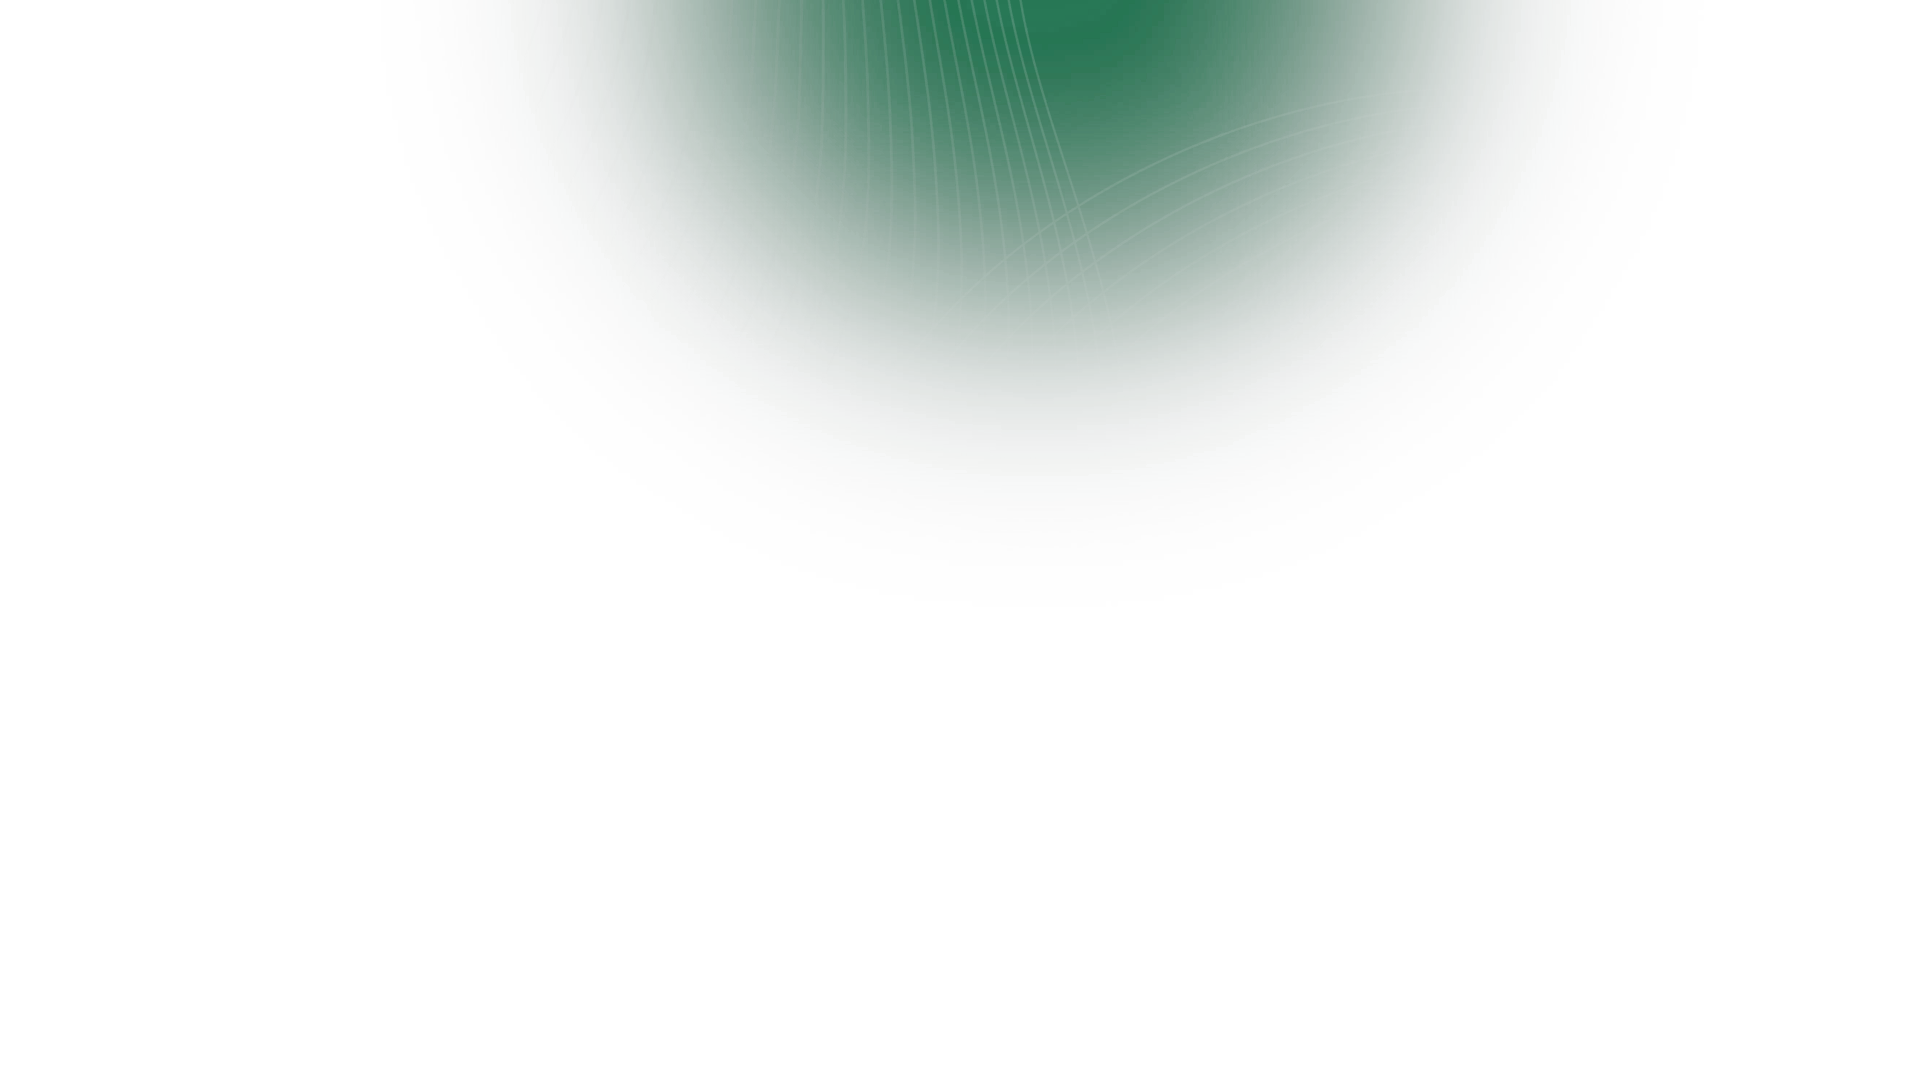
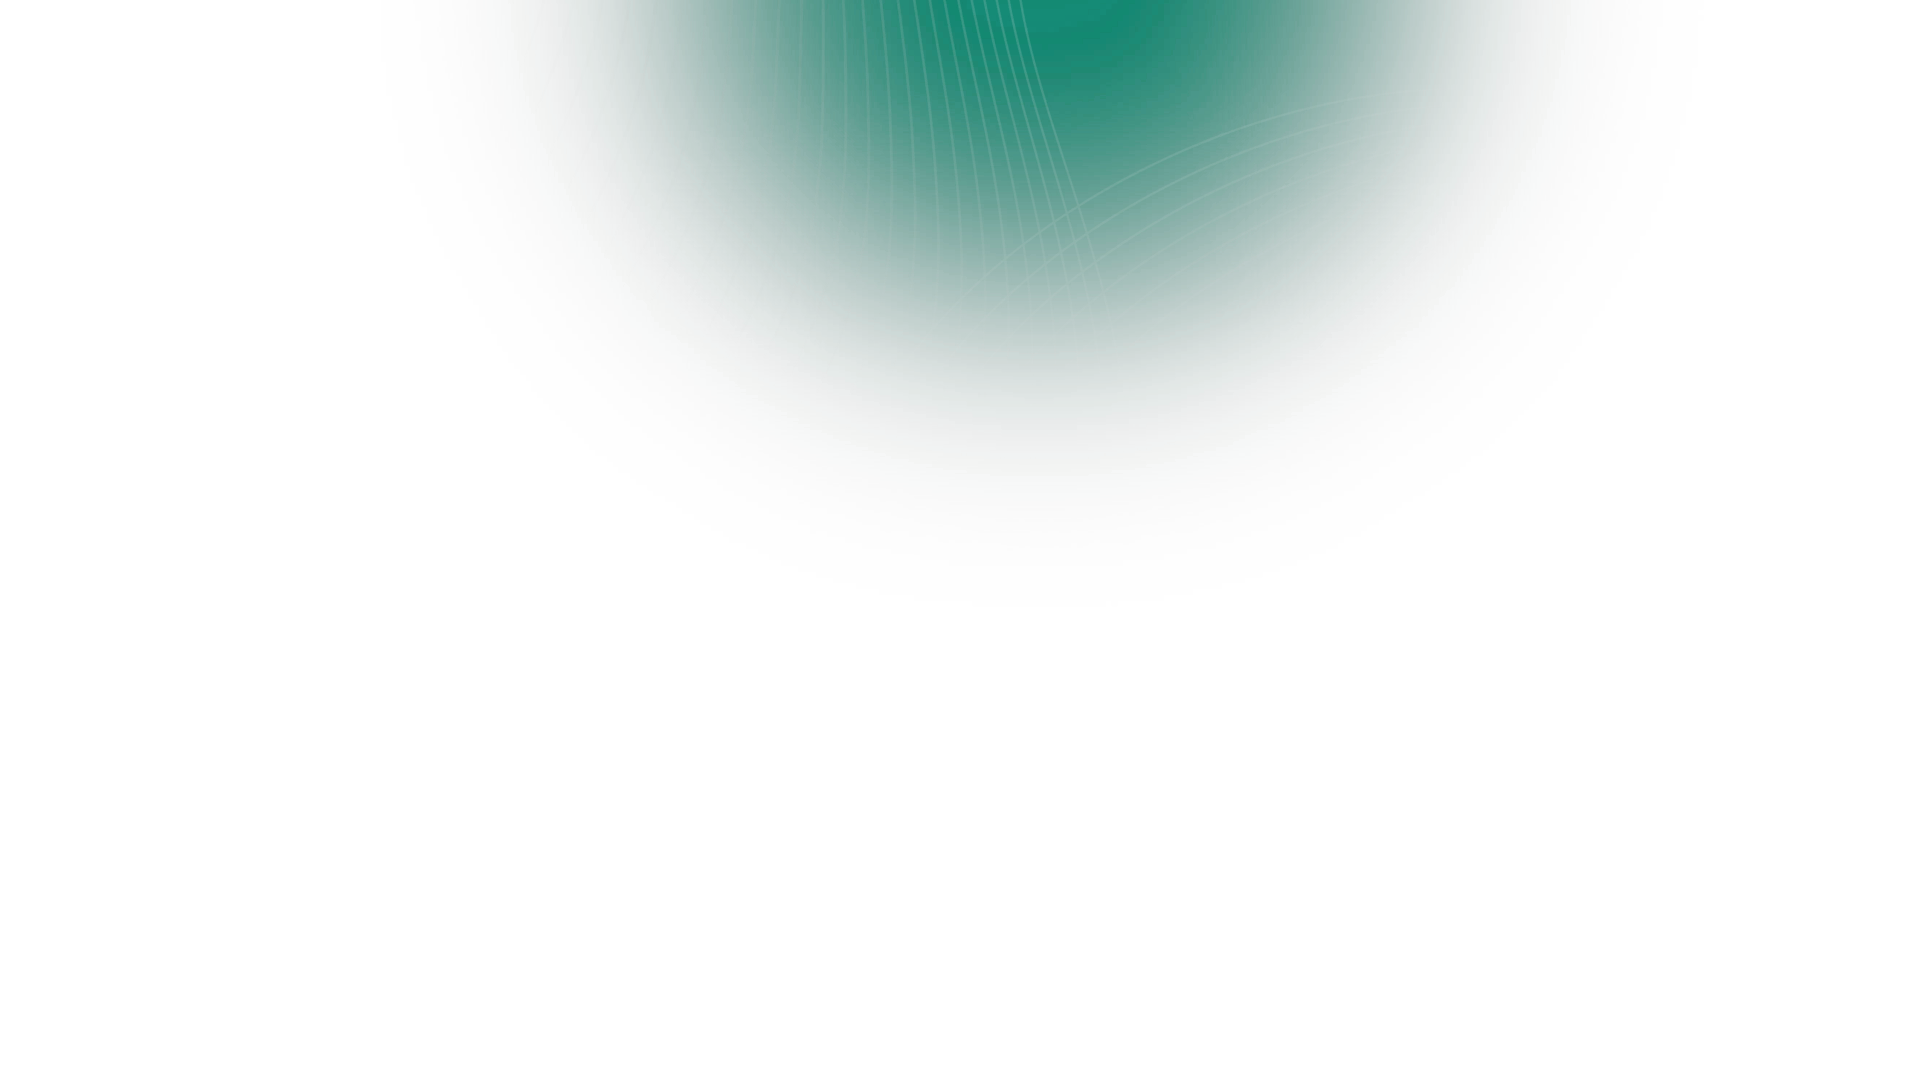
feat: изумрудная цветовая схема + новые фотографии спикера
- Все 6 фонов перекрашены в изумрудный через ImageMagick (-modulate 100,140,73)
- CSS-переменные: --navy:#0B3B34, --quote-card:#EAF4F1, glow rgba(46,125,107,...)
- Обложка: центральный cutout cover-cutout-6616.png (чёрный пиджак), правая панель → career-at-work.jpg
- О спикере: speaker-cutout-7182-v2.png (полоска, кроп до y=1680), маска 85-100%
- Контакты: cutout speaker-cutout-6633.png справа на белом + изумрудный glow

Changed region(s): [[0.4375, 0.0, 0.625, 0.1222]]

diff --git a/mediakit.html b/mediakit.html
@@ -9,13 +9,13 @@
 <link href="https://fonts.googleapis.com/css2?family=Montserrat:wght@700;800&family=Inter:wght@400;500;700&display=swap" rel="stylesheet">
 <style>
 :root{
-  --navy:#1E3A2F;
+  --navy:#0B3B34;
   --graphite:#3B3B38;
   --muted:rgba(59,59,56,.6);
   --panel:#F9F9F9;
   --card:#F6F6F6;
-  --quote-card:#EEF5F0;
-  --accent:30,58,47;
+  --quote-card:#EAF4F1;
+  --accent:11,59,52;
   --W:1920px;
   --H:1080px;
 }
@@ -54,7 +54,7 @@ img{display:block}
 .h1{font-family:'Montserrat',sans-serif;font-weight:800;font-size:74px;line-height:1;
     text-transform:uppercase;color:var(--navy);margin-bottom:44px}
 .h1-alt{font-size:64px;margin-bottom:36px}
-.h1 .g{color:var(--graphite)}
+.h1 .g{color:#7FAFA3}
 .h2{font-family:'Inter',sans-serif;font-weight:700;font-size:50px;line-height:1.1;color:var(--navy)}
 .h3{font-family:'Inter',sans-serif;font-weight:700;font-size:38px;line-height:1.2;color:var(--navy)}
 .body{font-size:32px;line-height:1.35}
@@ -110,7 +110,7 @@ ul.w li::before{border-left-color:#fff}
 .is-dark .quote-card{background:rgba(255,255,255,.08)}
 .is-dark .quote-card::before{color:rgba(255,255,255,.1)}
 .is-dark .chip{background:#F6F6F6;color:#3B3B38}
-.is-dark .pill{background:#fff;color:#1E3A2F}
+.is-dark .pill{background:#fff;color:#0B3B34}
 .is-dark ul.tri li::before{border-left-color:#fff}
 .is-dark ul.sq li::before{background:#fff}
 
@@ -118,9 +118,9 @@ ul.w li::before{border-left-color:#fff}
 .case-card{background:#F6F6F6;border-radius:28px;padding:36px 40px;display:flex;flex-direction:column;gap:14px}
 .case-card.dark{background:rgba(255,255,255,.07);border:1px solid rgba(255,255,255,.12)}
 .case-label{font-family:'Montserrat',sans-serif;font-weight:800;font-size:17px;letter-spacing:.1em;
-            text-transform:uppercase;color:rgba(30,58,47,.45);margin-bottom:4px}
+            text-transform:uppercase;color:rgba(11,59,52,.45);margin-bottom:4px}
 .case-label.white{color:rgba(255,255,255,.4)}
-.case-title{font-family:'Inter',sans-serif;font-weight:700;font-size:28px;line-height:1.2;color:#1E3A2F}
+.case-title{font-family:'Inter',sans-serif;font-weight:700;font-size:28px;line-height:1.2;color:#0B3B34}
 .case-title.white{color:#fff}
 .case-body{font-size:24px;line-height:1.4;color:#3B3B38}
 .case-body.white{color:rgba(255,255,255,.78)}
@@ -128,13 +128,13 @@ ul.w li::before{border-left-color:#fff}
 /* ── expertise card ── */
 .exp-card{background:#F6F6F6;border-radius:20px;padding:28px 32px;display:flex;flex-direction:column;gap:10px}
 .exp-card.dark{background:rgba(255,255,255,.07);border:1px solid rgba(255,255,255,.12)}
-.exp-title{font-family:'Inter',sans-serif;font-weight:700;font-size:26px;line-height:1.2;color:#1E3A2F}
+.exp-title{font-family:'Inter',sans-serif;font-weight:700;font-size:26px;line-height:1.2;color:#0B3B34}
 .exp-title.white{color:#fff}
 .exp-pain{font-size:22px;line-height:1.35;color:rgba(59,59,56,.7);font-style:italic}
 .exp-pain.white{color:rgba(255,255,255,.55)}
 .exp-body{font-size:21px;line-height:1.35;color:#3B3B38}
 .exp-body.white{color:rgba(255,255,255,.75)}
-.result-tag{background:#1E3A2F;color:#fff;border-radius:8px;padding:8px 18px;
+.result-tag{background:#0B3B34;color:#fff;border-radius:8px;padding:8px 18px;
             font-family:'Montserrat',sans-serif;font-weight:700;font-size:17px;
             letter-spacing:.02em;align-self:flex-start;margin-top:4px}
 .result-tag.accent{background:rgba(255,255,255,.15);border:1px solid rgba(255,255,255,.3);color:#fff}
@@ -149,26 +149,26 @@ ul.w li::before{border-left-color:#fff}
   <div style="position:absolute;left:-50px;top:155px;width:388px;height:590px;border-radius:24px;overflow:hidden;filter:grayscale(1) brightness(.85) contrast(1.05);z-index:1;background:url(photos/career-negotiations.jpg) center 30%/cover no-repeat"></div>
   <div style="position:absolute;left:395px;top:175px;width:386px;height:548px;border-radius:24px;overflow:hidden;filter:grayscale(1) brightness(.85) contrast(1.05);z-index:1;background:url(photos/cover-canton-1.jpg) 50% 20%/cover no-repeat"></div>
   <div style="position:absolute;left:1128px;top:175px;width:390px;height:548px;border-radius:24px;overflow:hidden;filter:grayscale(1) brightness(.85) contrast(1.05);z-index:1;background:url(photos/career-expo-v.jpg) center 25%/cover no-repeat"></div>
-  <div style="position:absolute;left:1581px;top:155px;width:388px;height:590px;border-radius:24px;overflow:hidden;filter:grayscale(1) brightness(.85) contrast(1.05);z-index:1;background:url(photos/career-factory-viet.jpg) center 30%/cover no-repeat"></div>
+  <div style="position:absolute;left:1581px;top:155px;width:388px;height:590px;border-radius:24px;overflow:hidden;filter:grayscale(1) brightness(.85) contrast(1.05);z-index:1;background:url(photos/career-at-work.jpg) center 20%/cover no-repeat"></div>
 
   <!-- Слой 2: мягкое светлое пятно за фигурой — отделяет тёмный пиджак от синего фона -->
   <div style="position:absolute;left:50%;transform:translateX(-50%);top:60px;
               width:940px;height:940px;
-              background:radial-gradient(closest-side,rgba(170,190,230,.45),transparent);
+              background:radial-gradient(closest-side,rgba(46,125,107,.38),transparent);
               z-index:2;pointer-events:none"></div>
 
   <!-- Слой 3: портрет по бёдра, маска снизу растворяется в фон, свечение по контуру -->
   <div style="position:absolute;left:50%;transform:translateX(-50%);top:80px;
               width:680px;height:1000px;
-              background:url(photos/anastasia-cutout-6991.png) center top/contain no-repeat;
+              background:url(photos/cover-cutout-6616.png) center top/contain no-repeat;
               z-index:3;pointer-events:none;
-              -webkit-mask-image:linear-gradient(to bottom,black 70%,transparent 100%);
-              mask-image:linear-gradient(to bottom,black 70%,transparent 100%);
-              filter:drop-shadow(0 0 24px rgba(200,215,245,.45))"></div>
+              -webkit-mask-image:linear-gradient(to bottom,black 72%,transparent 100%);
+              mask-image:linear-gradient(to bottom,black 72%,transparent 100%);
+              filter:drop-shadow(0 0 28px rgba(46,125,107,.5))"></div>
 
   <!-- Слой 4: градиент снизу -->
   <div style="position:absolute;left:0;right:0;bottom:0;height:320px;
-              background:linear-gradient(to top,#1E3A2F 0%,rgba(30,58,47,0) 100%);z-index:4"></div>
+              background:linear-gradient(to top,#0B3B34 0%,rgba(11,59,52,0) 100%);z-index:4"></div>
 
   <!-- Слой 5: текст поверх фигуры -->
   <div style="position:absolute;left:43px;top:37px;font-family:'Inter',sans-serif;font-weight:400;
@@ -199,12 +199,12 @@ ul.w li::before{border-left-color:#fff}
       <div class="quote-text" style="font-size:30px">«Моя миссия — делать торговлю с Китаем простой, прозрачной и выгодной. В основе моей работы три принципа: честность и прозрачность (только "белый" ВЭД, без серых схем), системность (выстраиваю системные поставки для российских сетей и производителей, которые могут работать автономно) и уважение к культуре и людям (основа долгосрочных партнёрств)».</div>
     </div>
   </div>
-  <div style="width:760px;flex-shrink:0;position:relative">
-    <div style="position:absolute;bottom:0;right:0;height:1080px;width:760px;
-      background:url(photos/speaker-cutout-7182-clean.png) center bottom/760px auto no-repeat;
-      filter:drop-shadow(-6px 0 28px rgba(20,40,25,.12));
-      -webkit-mask-image:linear-gradient(to bottom,black 72%,transparent 97%);
-      mask-image:linear-gradient(to bottom,black 72%,transparent 97%)"></div>
+  <div style="width:860px;flex-shrink:0;position:relative">
+    <div style="position:absolute;top:0;right:0;height:1080px;width:860px;
+      background:url(photos/speaker-cutout-7182-v2.png) center 260px/860px auto no-repeat;
+      filter:drop-shadow(-6px 8px 32px rgba(11,59,52,.14));
+      -webkit-mask-image:linear-gradient(to bottom,black 85%,transparent 100%);
+      mask-image:linear-gradient(to bottom,black 85%,transparent 100%)"></div>
   </div>
 </div></div>
 
@@ -243,8 +243,8 @@ ul.w li::before{border-left-color:#fff}
 
         <div class="exp-card" style="padding:20px 22px">
           <svg width="36" height="36" viewBox="0 0 40 40" fill="none" style="margin-bottom:6px;flex-shrink:0">
-            <path d="M20 8a4 4 0 0 1 4 4H24M20 8a4 4 0 0 0-4 4H6l14 9 14-9H24" stroke="#1E3A2F" stroke-width="2" stroke-linecap="round" stroke-linejoin="round"/>
-            <path d="M6 21v10a2 2 0 0 0 2 2h24a2 2 0 0 0 2-2V21" stroke="#1E3A2F" stroke-width="2" stroke-linecap="round"/>
+            <path d="M20 8a4 4 0 0 1 4 4H24M20 8a4 4 0 0 0-4 4H6l14 9 14-9H24" stroke="#0B3B34" stroke-width="2" stroke-linecap="round" stroke-linejoin="round"/>
+            <path d="M6 21v10a2 2 0 0 0 2 2h24a2 2 0 0 0 2-2V21" stroke="#0B3B34" stroke-width="2" stroke-linecap="round"/>
           </svg>
           <div class="exp-title" style="font-size:21px">Одежда и аксессуары</div>
           <ul class="tri" style="font-size:18px;display:flex;flex-direction:column;gap:4px;margin-top:5px">
@@ -256,9 +256,9 @@ ul.w li::before{border-left-color:#fff}
 
         <div class="exp-card" style="padding:20px 22px">
           <svg width="36" height="36" viewBox="0 0 40 40" fill="none" style="margin-bottom:6px;flex-shrink:0">
-            <path d="M8 12h24l-3 14H11L8 12Z" stroke="#1E3A2F" stroke-width="2" stroke-linejoin="round"/>
-            <circle cx="15" cy="32" r="2" fill="#1E3A2F"/><circle cx="27" cy="32" r="2" fill="#1E3A2F"/>
-            <path d="M4 6h4l4 6" stroke="#1E3A2F" stroke-width="2" stroke-linecap="round"/>
+            <path d="M8 12h24l-3 14H11L8 12Z" stroke="#0B3B34" stroke-width="2" stroke-linejoin="round"/>
+            <circle cx="15" cy="32" r="2" fill="#0B3B34"/><circle cx="27" cy="32" r="2" fill="#0B3B34"/>
+            <path d="M4 6h4l4 6" stroke="#0B3B34" stroke-width="2" stroke-linecap="round"/>
           </svg>
           <div class="exp-title" style="font-size:21px">Продукты питания (FMCG)</div>
           <ul class="tri" style="font-size:18px;display:flex;flex-direction:column;gap:4px;margin-top:5px">
@@ -270,9 +270,9 @@ ul.w li::before{border-left-color:#fff}
 
         <div class="exp-card" style="padding:20px 22px">
           <svg width="36" height="36" viewBox="0 0 40 40" fill="none" style="margin-bottom:6px;flex-shrink:0">
-            <rect x="10" y="4" width="20" height="32" rx="3" stroke="#1E3A2F" stroke-width="2"/>
-            <circle cx="20" cy="32" r="1.5" fill="#1E3A2F"/>
-            <path d="M15 10h10" stroke="#1E3A2F" stroke-width="2" stroke-linecap="round"/>
+            <rect x="10" y="4" width="20" height="32" rx="3" stroke="#0B3B34" stroke-width="2"/>
+            <circle cx="20" cy="32" r="1.5" fill="#0B3B34"/>
+            <path d="M15 10h10" stroke="#0B3B34" stroke-width="2" stroke-linecap="round"/>
           </svg>
           <div class="exp-title" style="font-size:21px">Электроника и гаджеты</div>
           <ul class="tri" style="font-size:18px;display:flex;flex-direction:column;gap:4px;margin-top:5px">
@@ -283,8 +283,8 @@ ul.w li::before{border-left-color:#fff}
 
         <div class="exp-card" style="padding:20px 22px">
           <svg width="36" height="36" viewBox="0 0 40 40" fill="none" style="margin-bottom:6px;flex-shrink:0">
-            <circle cx="20" cy="20" r="5" stroke="#1E3A2F" stroke-width="2"/>
-            <path d="M20 4v4M20 32v4M4 20h4M32 20h4M7.5 7.5l2.8 2.8M29.7 29.7l2.8 2.8M7.5 32.5l2.8-2.8M29.7 10.3l2.8-2.8" stroke="#1E3A2F" stroke-width="2" stroke-linecap="round"/>
+            <circle cx="20" cy="20" r="5" stroke="#0B3B34" stroke-width="2"/>
+            <path d="M20 4v4M20 32v4M4 20h4M32 20h4M7.5 7.5l2.8 2.8M29.7 29.7l2.8 2.8M7.5 32.5l2.8-2.8M29.7 10.3l2.8-2.8" stroke="#0B3B34" stroke-width="2" stroke-linecap="round"/>
           </svg>
           <div class="exp-title" style="font-size:21px">Оборудование и B2B</div>
           <ul class="tri" style="font-size:18px;display:flex;flex-direction:column;gap:4px;margin-top:5px">
@@ -297,7 +297,7 @@ ul.w li::before{border-left-color:#fff}
     </div>
 
     <!-- Разделитель -->
-    <div style="width:1px;background:rgba(30,58,47,.14);margin:56px 0;flex-shrink:0"></div>
+    <div style="width:1px;background:rgba(11,59,52,.14);margin:56px 0;flex-shrink:0"></div>
 
     <!-- Правая: 6 цифр -->
     <div style="width:370px;flex-shrink:0;display:flex;flex-direction:column;justify-content:center;gap:20px;padding-left:44px">
@@ -382,7 +382,7 @@ ul.w li::before{border-left-color:#fff}
     </div>
 
     <!-- Разделитель -->
-    <div style="width:1px;background:rgba(30,58,47,.12);margin:40px 0;flex-shrink:0"></div>
+    <div style="width:1px;background:rgba(11,59,52,.12);margin:40px 0;flex-shrink:0"></div>
 
     <!-- Правая ~65%: экспертиза + результаты -->
     <div style="flex:.58;min-width:0;display:flex;flex-direction:column;justify-content:center;gap:14px">
@@ -987,13 +987,12 @@ ul.w li::before{border-left-color:#fff}
     <div class="pill" style="border-radius:28px;min-width:440px;justify-content:center">sales@madeincn.ru</div>
   </div>
 
-  <!-- Правая часть: фото Анастасии -->
-  <div style="position:absolute;left:1160px;top:0;width:760px;height:1080px;overflow:hidden;border-radius:48px 0 0 48px;background:url(photos/IMG_6633.JPG) center 10%/cover no-repeat">
-    <div style="position:absolute;left:0;right:0;bottom:0;height:480px;background:linear-gradient(to top,rgba(30,58,47,.92) 0%,rgba(30,58,47,0) 45%)"></div>
-    <div style="position:absolute;left:52px;bottom:52px">
-      <div style="font-family:'Montserrat',sans-serif;font-weight:800;font-size:52px;line-height:1;color:#fff">Анастасия Реутова</div>
-      <div style="font-family:'Inter',sans-serif;font-size:24px;line-height:1.4;color:rgba(255,255,255,.85);margin-top:12px">Эксперт по ВЭД с Китаем<br>Dalian Jia Wei Cheng International Trading Co., Ltd.<br>Наставник · Собственник бизнеса</div>
-    </div>
+  <!-- Правая часть: фигура на белом + изумрудный glow -->
+  <div style="position:absolute;left:1100px;top:0;width:820px;height:1080px">
+    <div style="position:absolute;inset:0;background:radial-gradient(ellipse 560px 700px at 58% 48%,rgba(46,125,107,.22),transparent)"></div>
+    <div style="position:absolute;bottom:0;right:0;width:760px;height:1080px;
+      background:url(photos/speaker-cutout-6633.png) center bottom/760px auto no-repeat;
+      filter:drop-shadow(-4px 0 24px rgba(11,59,52,.1))"></div>
   </div>
 
 </div></div>
